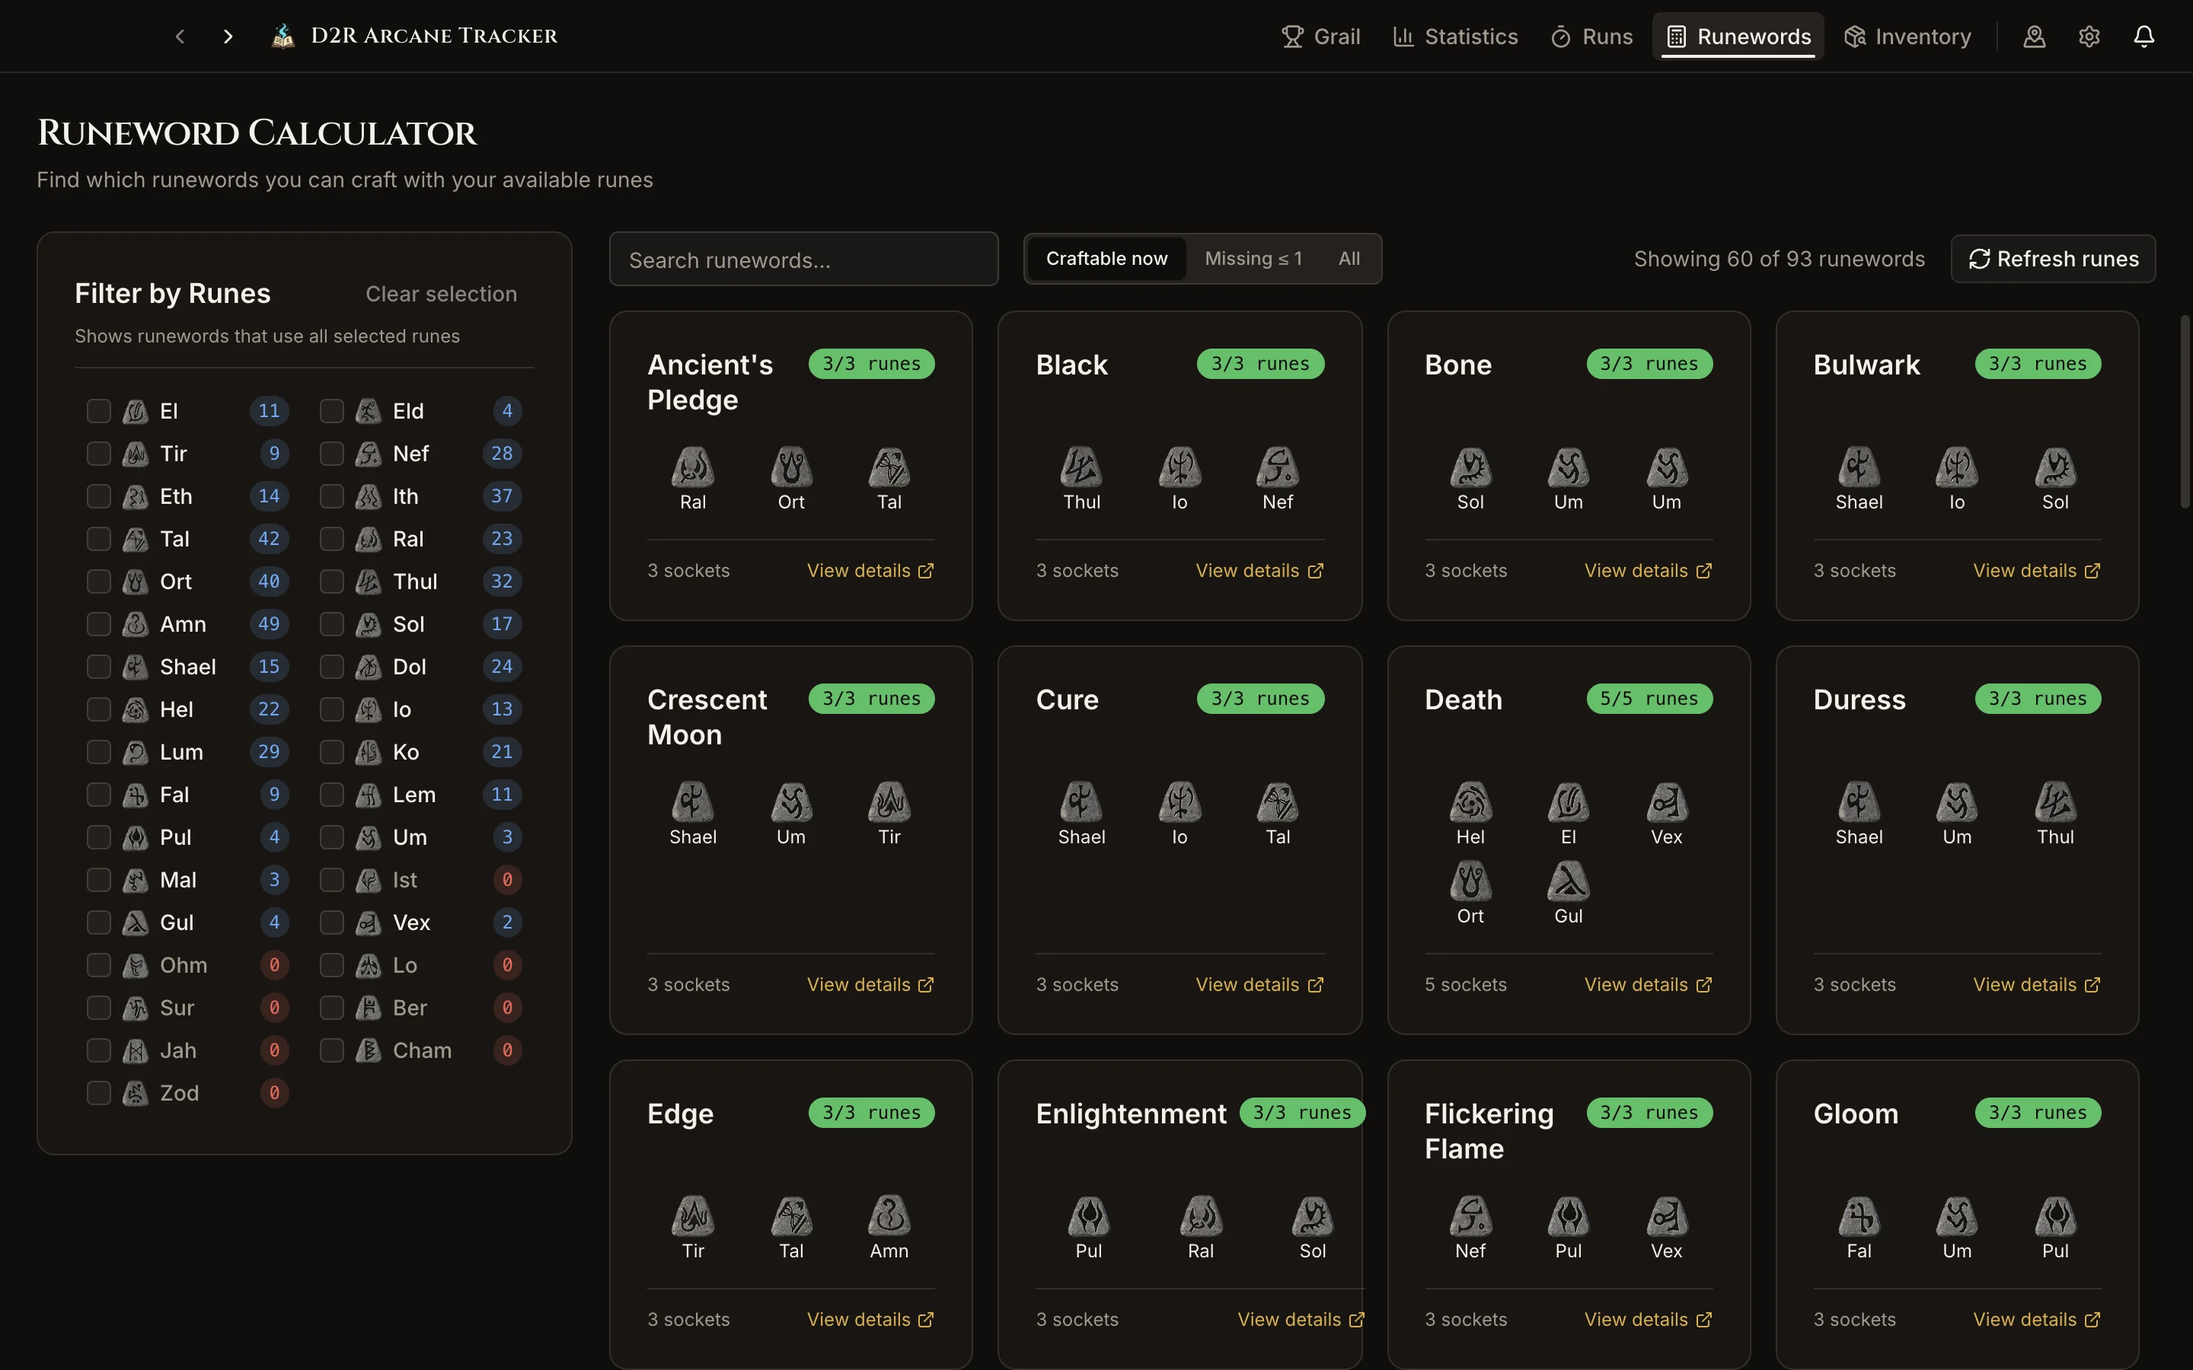
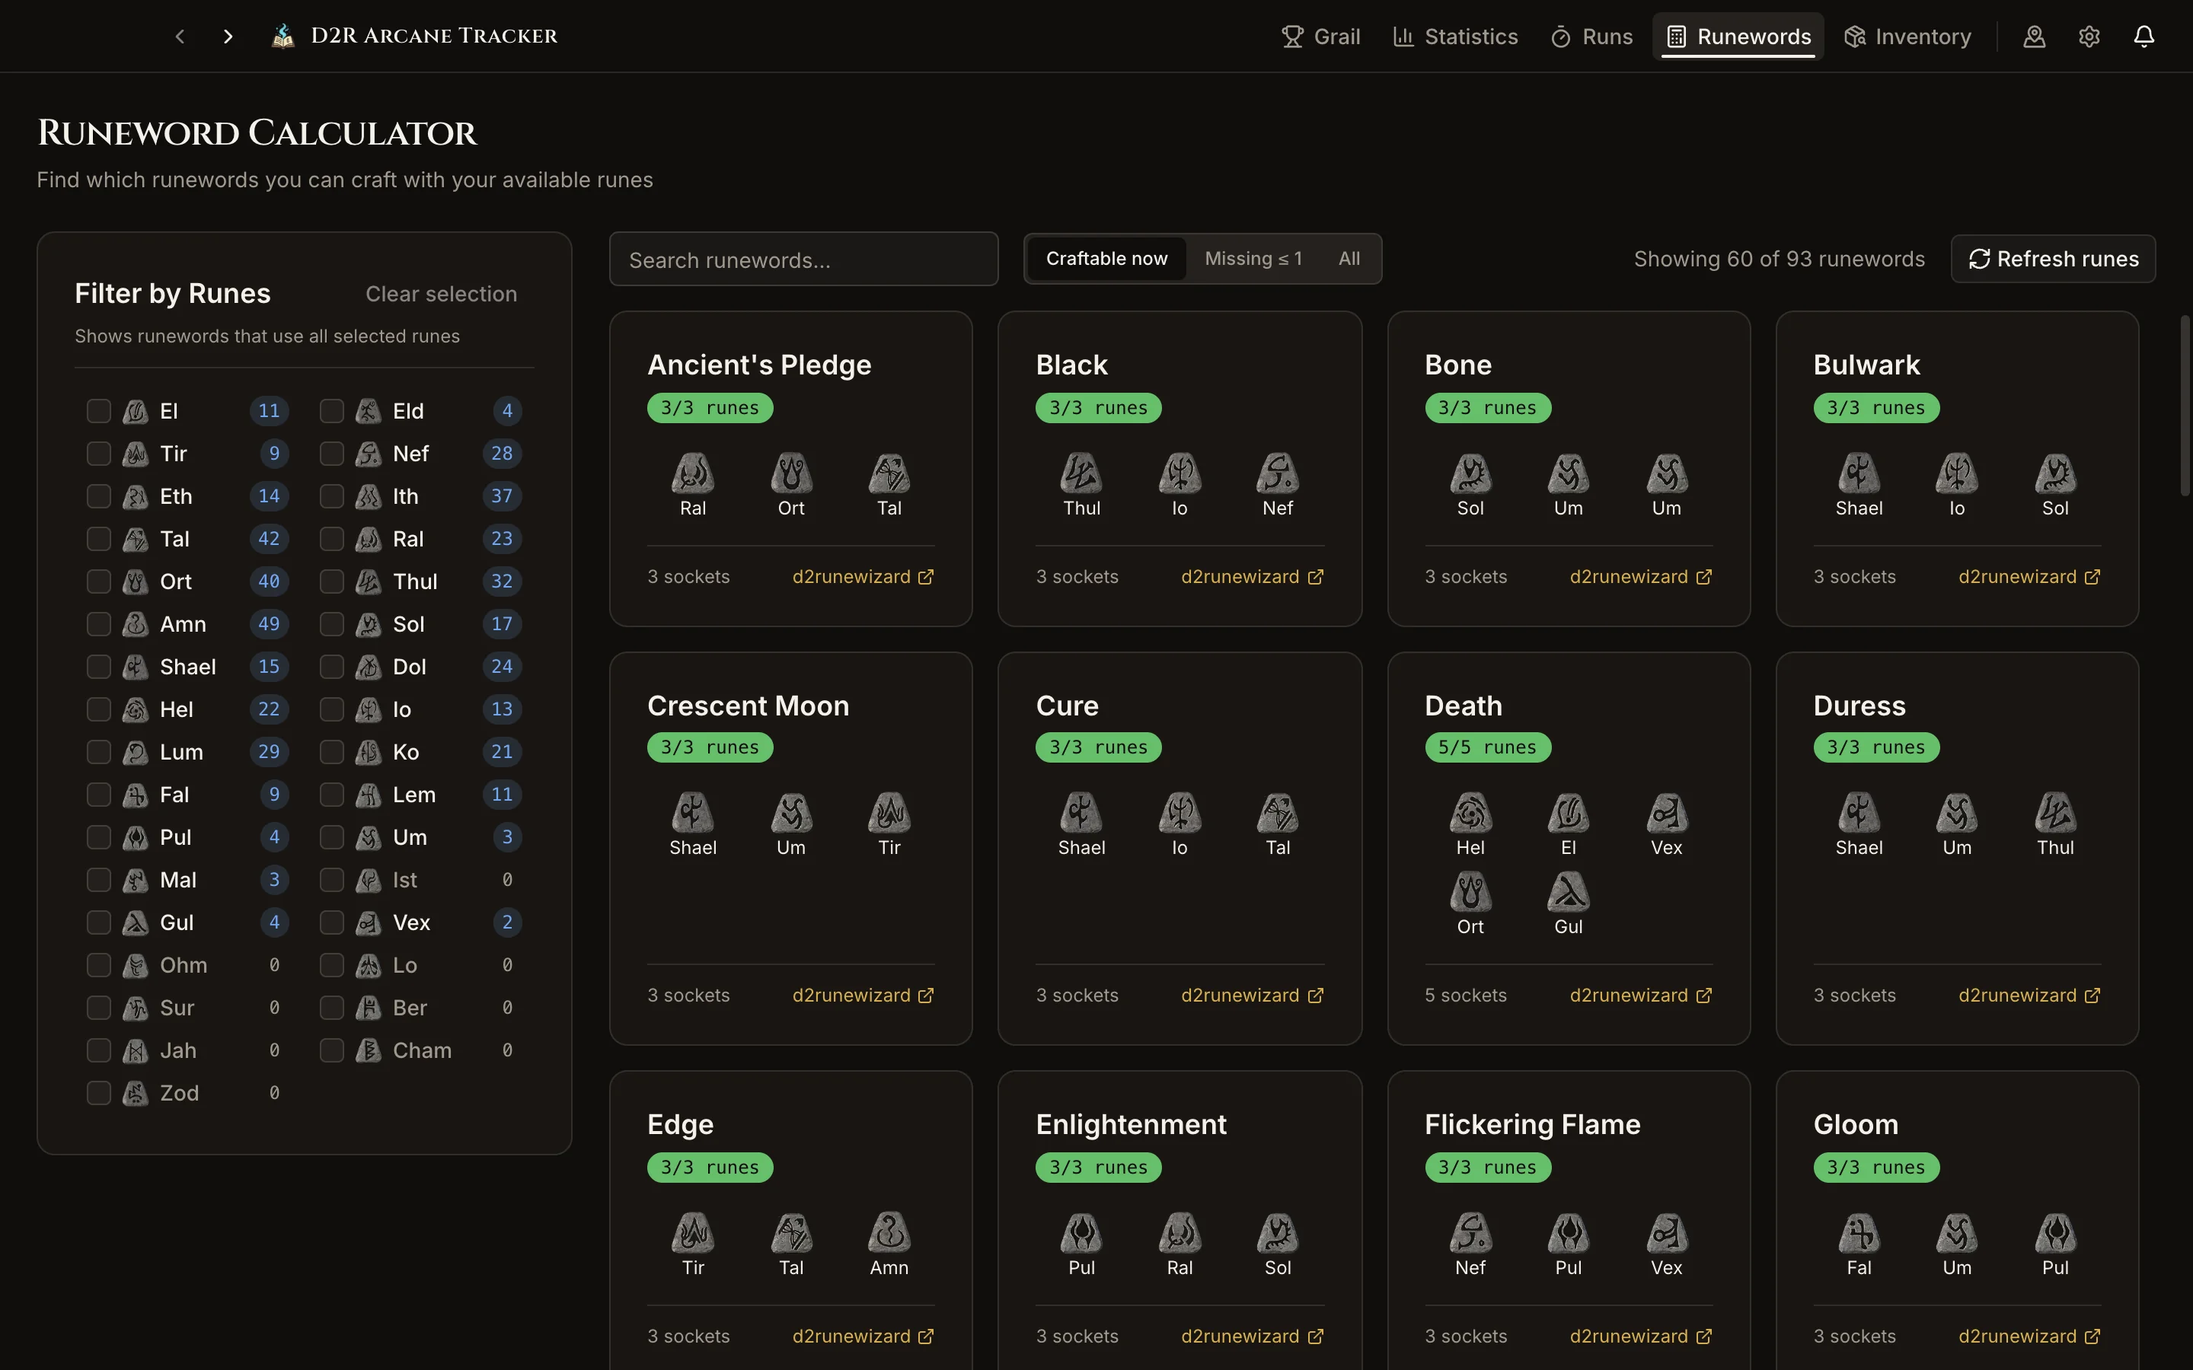
fix(runewords): mute unowned rune counts, stack card badge, name link site (#141)

diff --git a/src/components/runeword/RunewordCard.tsx b/src/components/runeword/RunewordCard.tsx
@@ -4,6 +4,7 @@ import { useTranslation } from 'react-i18next';
 import { Badge } from '@/components/ui/badge';
 import { Card } from '@/components/ui/card';
 import { translations } from '@/i18n/translations';
+import { getExternalLinkLabelKey, getExternalLinkSiteKey } from '@/lib/links';
 import { getRunewordCompletionStatus } from '@/lib/runeword-utils';
 import { cn } from '@/lib/utils';
 import { RuneImages } from '../grail/RuneImages';
@@ -46,15 +47,15 @@ export function RunewordCard({ runeword, availableRunes, className }: RunewordCa
         className,
       )}
     >
-      {/* Header with name and completion badge */}
-      <div className="flex items-start justify-between gap-2">
-        <h3 className="min-w-0 flex-1 break-words font-semibold text-lg leading-tight">
-          {runeword.name}
-        </h3>
+      {/* Header: the name gets the full card width and the completion badge sits on its own line
+          below it, so long names never collide with the badge. Most names fit on one line; a
+          long one wraps instead of being cut off. */}
+      <div className="flex min-w-0 flex-col items-start gap-1.5">
+        <h3 className="w-full break-words font-semibold text-lg leading-tight">{runeword.name}</h3>
         <Badge
           variant={completionStatus.complete ? 'default' : 'outline'}
           className={cn(
-            'shrink-0 font-mono',
+            'font-mono',
             completionStatus.complete && 'bg-success text-success-foreground',
           )}
         >
@@ -85,10 +86,11 @@ export function RunewordCard({ runeword, availableRunes, className }: RunewordCa
         )}
       </div>
 
-      {/* Footer: one socket per rune, and a link to the full runeword details */}
-      <div className="flex items-end justify-between gap-2 border-border border-t pt-3 text-xs">
+      {/* Footer: one socket per rune, and a link to the runeword's page on an external site. Both
+          stay on one line each; on a card too narrow for both, the link wraps to its own line. */}
+      <div className="flex flex-wrap items-end justify-between gap-x-2 gap-y-1 border-border border-t pt-3 text-xs">
         {socketCount > 0 && (
-          <span className="text-muted-foreground">
+          <span className="whitespace-nowrap text-muted-foreground">
             {t(translations.runeword.card.sockets, { count: socketCount })}
           </span>
         )}
@@ -97,13 +99,16 @@ export function RunewordCard({ runeword, availableRunes, className }: RunewordCa
             href={runeword.link}
             target="_blank"
             rel="noopener noreferrer"
-            className="ml-auto inline-flex items-center gap-1 text-primary hover:underline"
+            aria-label={t(getExternalLinkLabelKey(runeword.link))}
+            className="ml-auto inline-flex items-center gap-1 whitespace-nowrap text-primary hover:underline"
             onClick={(e) => {
               e.preventDefault();
               window.electronAPI?.shell.openExternal(runeword.link);
             }}
           >
-            {t(translations.runeword.card.viewDetails)}
+            {/* The footer shows just the site name so it fits on one row; the accessible name is
+                the full "View on ..." label the item details dialog uses and contains the text */}
+            {t(getExternalLinkSiteKey(runeword.link))}
             <ExternalLink aria-hidden="true" className="size-3" />
           </a>
         )}

diff --git a/src/components/runeword/RunewordCard.test.tsx b/src/components/runeword/RunewordCard.test.tsx
@@ -29,9 +29,9 @@ function stubElectronApi() {
   };
 }
 
-function renderCard(runes: string[] | undefined) {
+function renderCard(runes: string[] | undefined, link = '') {
   stubElectronApi();
-  render(<RunewordCard runeword={createRuneword(runes)} availableRunes={{}} />);
+  render(<RunewordCard runeword={createRuneword(runes, link)} availableRunes={{}} />);
 }
 
 describe('RunewordCard', () => {
@@ -83,5 +83,60 @@ describe('RunewordCard', () => {
     // contained by the page and stretch the document's scrollable height.
     const card = screen.getByRole('heading', { name: 'Steel' }).closest('[data-slot="card"]');
     expect(card).toHaveClass('relative');
+  });
+
+  it('When the card is rendered, Then the completion badge sits on its own line below the name', () => {
+    // Arrange & Act
+    renderCard(['tir', 'el']);
+
+    // Assert
+    const heading = screen.getByRole('heading', { name: 'Steel' });
+    const header = heading.parentElement;
+    expect(header).toHaveClass('flex-col');
+    expect(heading.nextElementSibling).toHaveTextContent('0 of 2 runes available');
+  });
+
+  it.each([
+    [
+      'd2runewizard',
+      'https://d2runewizard.com/runewords/Steel',
+      'View on d2runewizard',
+      'd2runewizard',
+    ],
+    [
+      'diablo2.io',
+      'https://diablo2.io/runewords/steel-t1.html',
+      'View on diablo2.io',
+      'diablo2.io',
+    ],
+  ])('If the runeword links to %s, Then the link shows the site name and its accessible name says where it goes', (_site, link, accessibleName, visibleText) => {
+    // Arrange & Act
+    renderCard(['tir', 'el'], link);
+
+    // Assert
+    const anchor = screen.getByRole('link', { name: accessibleName });
+    expect(anchor).toHaveAttribute('href', link);
+    expect(anchor).toHaveTextContent(visibleText);
+    expect(anchor).not.toHaveTextContent('View on');
+  });
+
+  it('When the footer is narrow, Then the socket count and link stay unbroken and the link wraps below', () => {
+    // Arrange & Act
+    renderCard(['tir', 'el'], 'https://d2runewizard.com/runewords/Steel');
+
+    // Assert
+    const sockets = screen.getByText('2 sockets');
+    const link = screen.getByRole('link', { name: 'View on d2runewizard' });
+    expect(sockets).toHaveClass('whitespace-nowrap');
+    expect(link).toHaveClass('whitespace-nowrap');
+    expect(sockets.parentElement).toHaveClass('flex-wrap');
+  });
+
+  it('If the runeword has no link, Then no external link is shown', () => {
+    // Arrange & Act
+    renderCard(['tir', 'el']);
+
+    // Assert
+    expect(screen.queryByRole('link')).not.toBeInTheDocument();
   });
 });

diff --git a/src/components/runeword/RuneFilters.test.tsx b/src/components/runeword/RuneFilters.test.tsx
@@ -110,3 +110,42 @@ describe('When RuneFilters shows long rune names or counts', () => {
     expect(screen.getByLabelText(/^Cham\s*123$/)).toBeInTheDocument();
   });
 });
+
+/** Finds the count shown in the row of the rune whose label matches. */
+function getCountOf(runeLabel: RegExp, count: string): HTMLElement {
+  const row = screen.getByLabelText(runeLabel).closest('div') as HTMLElement;
+  return within(row).getByText(count);
+}
+
+describe('When RuneFilters shows owned counts', () => {
+  beforeEach(() => {
+    setElectronAPI({ icon: { getByFilename: vi.fn().mockResolvedValue(undefined) } });
+  });
+
+  afterAll(() => {
+    setElectronAPI(originalElectronAPI);
+  });
+
+  it('If a rune is not owned, Then its zero count is muted text rather than a red pill', () => {
+    // Arrange & Act
+    render(
+      <RuneFilters selectedRunes={[]} onRuneSelectionChange={vi.fn()} availableRunes={{ el: 2 }} />,
+    );
+
+    // Assert
+    const zodCount = getCountOf(/^Zod/, '0');
+    expect(zodCount.closest('label')).toHaveClass('text-muted-foreground');
+    expect(zodCount).not.toHaveClass('text-missing', 'bg-missing/15', 'bg-info/15');
+  });
+
+  it('If a rune is owned, Then its count is shown in a filled pill', () => {
+    // Arrange & Act
+    render(
+      <RuneFilters selectedRunes={[]} onRuneSelectionChange={vi.fn()} availableRunes={{ el: 2 }} />,
+    );
+
+    // Assert
+    const elCount = getCountOf(/^El\s*2$/, '2');
+    expect(elCount).toHaveClass('bg-info/15', 'text-info');
+  });
+});

diff --git a/src/lib/links.test.ts b/src/lib/links.test.ts
@@ -1,0 +1,48 @@
+import { describe, expect, it } from 'vitest';
+import { translations } from '@/i18n/translations';
+import { getExternalLinkLabelKey, getExternalLinkSiteKey } from './links';
+
+describe('getExternalLinkLabelKey', () => {
+  it('When the link points to diablo2.io, Then it returns the diablo2.io label key', () => {
+    // Arrange
+    const link = 'https://diablo2.io/runewords/steel-t1.html';
+
+    // Act
+    const key = getExternalLinkLabelKey(link);
+
+    // Assert
+    expect(key).toBe(translations.grail.itemDetails.viewOnDiablo2io);
+  });
+
+  it('When the link points to d2runewizard, Then it returns the d2runewizard label key', () => {
+    // Arrange
+    const link = 'https://d2runewizard.com/runewords/Steel';
+
+    // Act
+    const key = getExternalLinkLabelKey(link);
+
+    // Assert
+    expect(key).toBe(translations.grail.itemDetails.viewOnD2runewizard);
+  });
+});
+
+describe('getExternalLinkSiteKey', () => {
+  it.each([
+    [
+      'diablo2.io',
+      'https://diablo2.io/runewords/steel-t1.html',
+      translations.grail.itemDetails.siteDiablo2io,
+    ],
+    [
+      'd2runewizard',
+      'https://d2runewizard.com/runewords/Steel',
+      translations.grail.itemDetails.siteD2runewizard,
+    ],
+  ])('When the link points to %s, Then it returns that site name key', (_site, link, expectedKey) => {
+    // Arrange & Act
+    const key = getExternalLinkSiteKey(link);
+
+    // Assert
+    expect(key).toBe(expectedKey);
+  });
+});

diff --git a/src/components/runeword/RuneFilters.tsx b/src/components/runeword/RuneFilters.tsx
@@ -29,7 +29,7 @@ interface RuneFiltersProps {
 
 /**
  * RuneFilters component that displays checkboxes for filtering by runes.
- * Shows all 33 runes with their images, available counts, and highlights runes with 0 count.
+ * Shows all 33 runes with their images and available counts; runes you don't own are muted.
  * Runewords must contain all selected runes to match; a button clears the selection.
  */
 export function RuneFilters({
@@ -135,10 +135,13 @@ export function RuneFilters({
                 <span className="min-w-0 truncate font-medium" title={rune.name}>
                   {rune.name}
                 </span>
+                {/* Not owning a rune is normal, not an error: zero is plain muted text, while
+                    owned counts sit in a filled pill, so the two differ in shape, not only color. The zero
+                    takes its muted color from the label. */}
                 <span
                   className={cn(
                     'shrink-0 rounded-full px-1.5 py-0.5 font-mono text-xs',
-                    hasNone ? 'bg-missing/15 text-missing' : 'bg-info/15 text-info',
+                    !hasNone && 'bg-info/15 text-info',
                   )}
                 >
                   {count}

diff --git a/src/lib/links.ts b/src/lib/links.ts
@@ -1,4 +1,30 @@
+import { translations } from '@/i18n/translations';
+
 /**
  * GitHub issue tracker where users can report bugs and request features.
  */
 export const ISSUE_TRACKER_URL = 'https://github.com/hyperremix/d2r-arcane-tracker/issues';
+
+function isDiablo2ioLink(link: string): boolean {
+  return link.includes('diablo2.io');
+}
+
+/**
+ * Returns the translation key of the "View on ..." label that names the external site an item or
+ * runeword link opens (diablo2.io, otherwise d2runewizard).
+ */
+export function getExternalLinkLabelKey(link: string): string {
+  return isDiablo2ioLink(link)
+    ? translations.grail.itemDetails.viewOnDiablo2io
+    : translations.grail.itemDetails.viewOnD2runewizard;
+}
+
+/**
+ * Returns the translation key of the bare site name (diablo2.io, otherwise d2runewizard) that an
+ * item or runeword link opens, for places that are too narrow for the full "View on ..." label.
+ */
+export function getExternalLinkSiteKey(link: string): string {
+  return isDiablo2ioLink(link)
+    ? translations.grail.itemDetails.siteDiablo2io
+    : translations.grail.itemDetails.siteD2runewizard;
+}

diff --git a/src/components/runeword/RunewordCalculator.test.tsx b/src/components/runeword/RunewordCalculator.test.tsx
@@ -337,7 +337,9 @@ describe('RunewordCalculator', () => {
       // Assert
       const steelCard = getCard('Steel');
       const stealthCard = getCard('Stealth');
-      expect(within(steelCard).getByRole('link', { name: 'View details' })).toBeInTheDocument();
+      expect(
+        within(steelCard).getByRole('link', { name: 'View on d2runewizard' }),
+      ).toBeInTheDocument();
       expect(within(stealthCard).queryByRole('link')).not.toBeInTheDocument();
     });
 
@@ -348,7 +350,9 @@ describe('RunewordCalculator', () => {
       await renderCalculator();
 
       // Act
-      const notPrevented = fireEvent.click(screen.getByRole('link', { name: 'View details' }));
+      const notPrevented = fireEvent.click(
+        screen.getByRole('link', { name: 'View on d2runewizard' }),
+      );
 
       // Assert
       expect(notPrevented).toBe(false);

diff --git a/src/components/grail/ItemDetailsDialog/ItemInfoSection.tsx b/src/components/grail/ItemDetailsDialog/ItemInfoSection.tsx
@@ -10,6 +10,7 @@ import {
   itemTreasureClassLabelKeys,
   itemTypeLabelKeys,
 } from '@/lib/labelKeys';
+import { getExternalLinkLabelKey } from '@/lib/links';
 import { cn } from '@/lib/utils';
 
 /**
@@ -79,9 +80,7 @@ export function ItemInfoSection({ item }: { item: Item }) {
             rel="noopener noreferrer"
             className="inline-flex items-center gap-1 text-primary underline underline-offset-4 hover:text-primary/80"
           >
-            {item.link.includes('diablo2.io')
-              ? t(keys.viewOnDiablo2io)
-              : t(keys.viewOnD2runewizard)}
+            {t(getExternalLinkLabelKey(item.link))}
             <ExternalLink className="h-3.5 w-3.5" aria-hidden="true" />
           </a>
         </p>

diff --git a/docs/HOLY_GRAIL_GUIDE.md b/docs/HOLY_GRAIL_GUIDE.md
@@ -145,9 +145,9 @@ The **Runeword Calculator** reads the runes in your save files and shows which r
 
 - Choose what to show: **Craftable now** (the default) shows runewords you can make with the runes you have. **Missing ≤ 1** also shows runewords that need one more rune, and **All** shows every runeword. If nothing matches the current view, the page offers the next broader view that has results.
 - Results are sorted with craftable runewords first, then by the fewest missing runes, then by name.
-- Search by name in the toolbar above the results, or select runes in the sidebar to show only runewords that use **all** of the selected runes. **Clear selection** removes them. The sidebar also shows how many of each rune you have.
+- Search by name in the toolbar above the results, or select runes in the sidebar to show only runewords that use **all** of the selected runes. **Clear selection** removes them. The sidebar also shows how many of each rune you have; runes you don't have show a muted 0.
 - **Refresh runes** rescans your save files after you pick up or use runes in the game. In **Manual Entry** mode save files are not rescanned, so the counts stay as they were at the last scan.
-- Each card shows how many of its runes you have (for example, "3/4 runes", green when you have them all) and marks missing runes with a cross, including when a runeword needs the same rune more than once. The card footer shows how many sockets the runeword needs (one per rune) and links to the runeword's details.
+- Each card shows how many of its runes you have below the runeword's name (for example, "3/4 runes", green when you have them all) and marks missing runes with a cross, including when a runeword needs the same rune more than once. The card footer shows how many sockets the runeword needs (one per rune) and has a link, labeled with the site it opens (d2runewizard or diablo2.io), to the runeword's page in your browser. The footer fits on one row on normal-width cards.
 - The sidebar stays in place while you scroll through the runewords. In short windows (roughly under 830px tall), the rune list scrolls inside the sidebar instead.
 
 The calculator works whether or not you track runewords in your grail.
